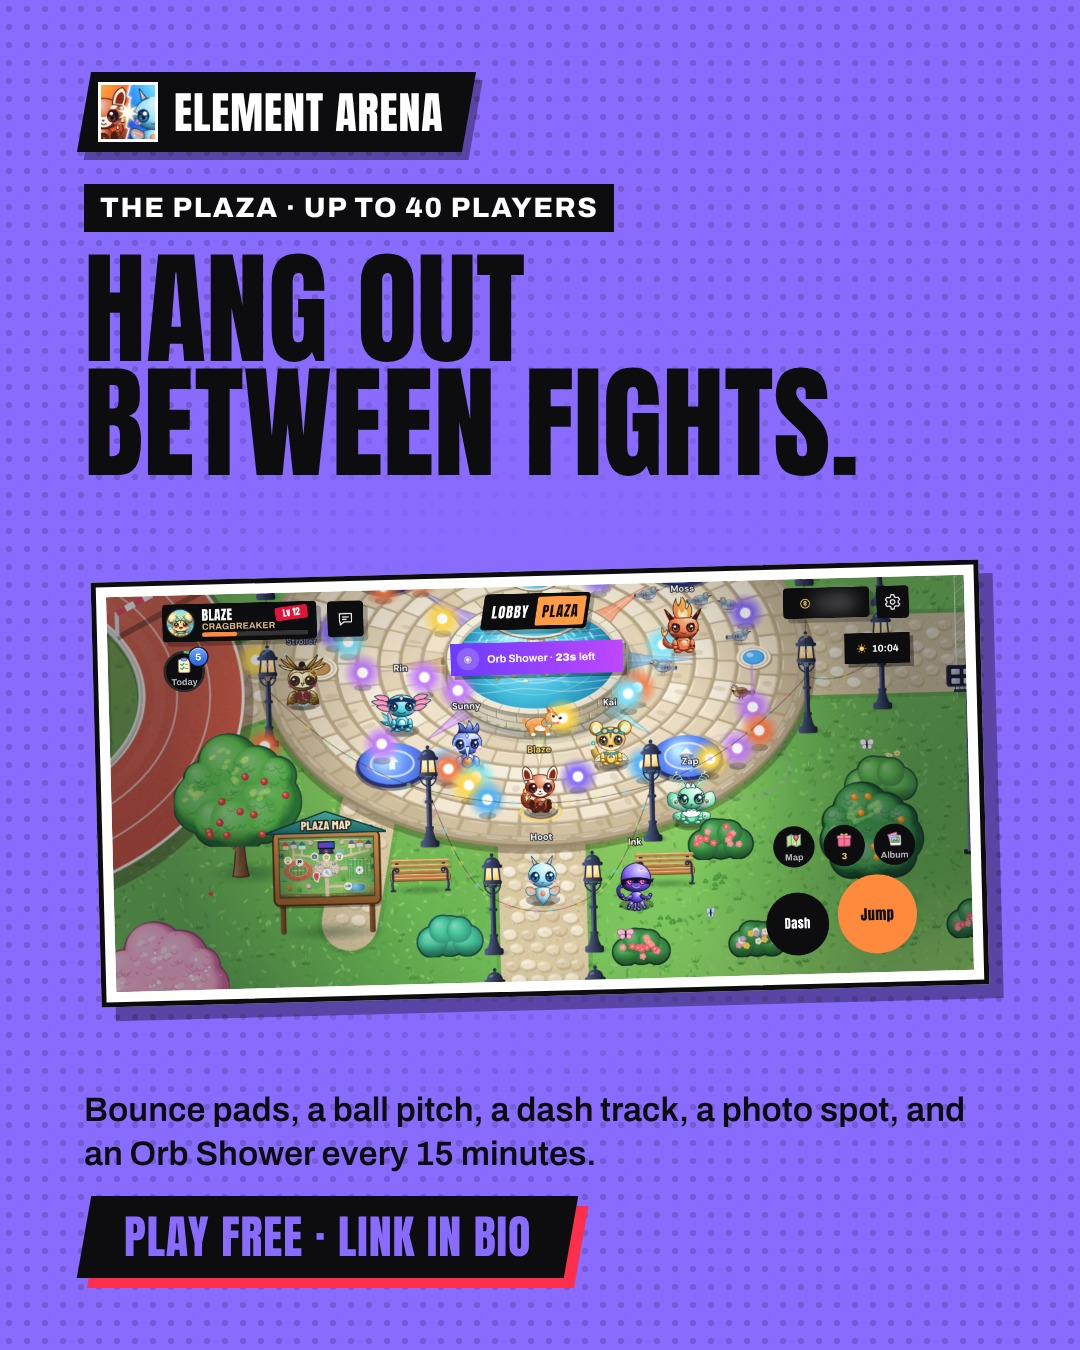
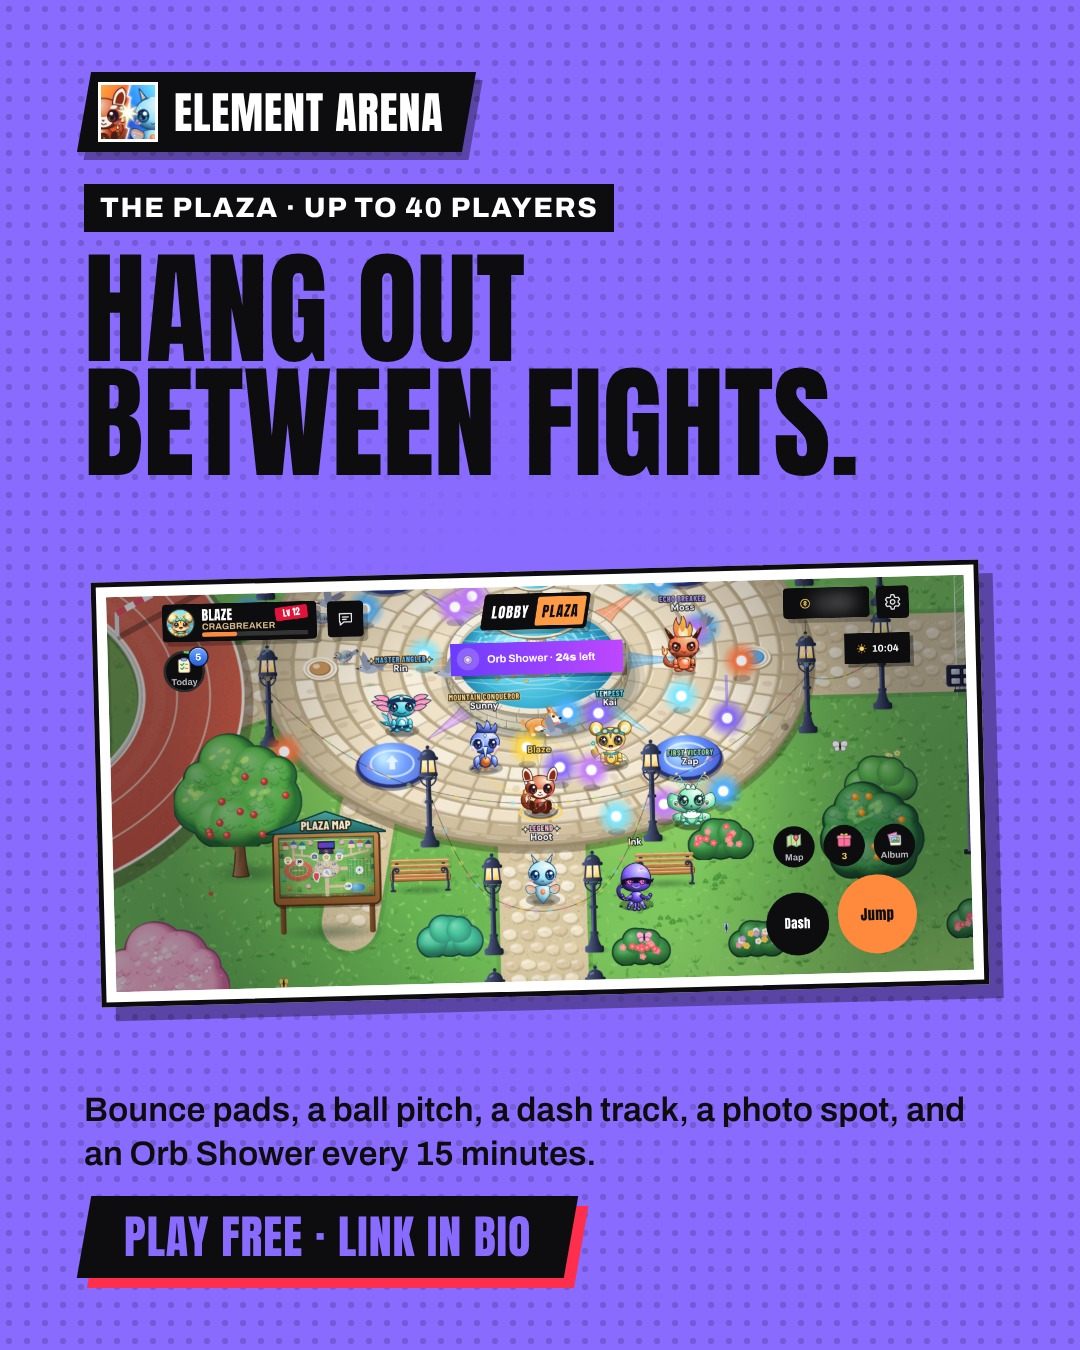
Instagram: the Plaza post shows players' titles (#650)
#650 puts a player's title over their name in the Plaza. The made-up
players in post 12 now wear the game's own titles, one per tier (Legend,
Master Angler, Mountain Conqueror and Tempest, Echo Breaker, First
Victory) and one none, retaken on main; Sunny moves a step so its title
clears Rin. The caption says titles show over your name.

Claude-Session: https://claude.ai/code/session_01GGURqTyss1yZEG5qcb1sBJ

Changed region(s): [[0.2139, 0.4044, 0.7333, 0.6844], [0.7639, 0.5289, 0.7944, 0.56], [0.5806, 0.6844, 0.6111, 0.7156]]

diff --git a/scripts/instagram/screens.spec.ts b/scripts/instagram/screens.spec.ts
@@ -49,26 +49,30 @@ const CROWD: [
   level: number,
   x: number,
   y: number,
+  title: string | null,
+  titleColor: string | null,
 ][] = [
-  ["Rin", "tidefin", 7, 1160, 990],
-  ["Sunny", "halcyra", 31, 1250, 1045],
-  ["Kai", "voltkit", 12, 1450, 1045],
-  ["Moss", "cindrake", 18, 1555, 1035],
-  ["Zap", "lumoth", 9, 1560, 1130],
-  ["Hoot", "glacelle", 24, 1350, 1230],
-  ["Ink", "shadopus", 15, 1480, 1240],
+  // Titles over the names, every tier (#650; the game's own titles and
+  // colours, as tests/visual/plaza-title-crowd.ts), and one with none.
+  ["Rin", "tidefin", 7, 1160, 990, "Master Angler", "#5fb3ff"],
+  ["Sunny", "halcyra", 31, 1275, 1045, "Mountain Conqueror", "#ffcf66"],
+  ["Kai", "voltkit", 12, 1450, 1045, "Tempest", "#50dbe9"],
+  ["Moss", "cindrake", 18, 1555, 1035, "Echo Breaker", "#b79cff"],
+  ["Zap", "lumoth", 9, 1560, 1130, "First Victory", "#9ee6a8"],
+  ["Hoot", "glacelle", 24, 1350, 1230, "Legend", "#ffe08a"],
+  ["Ink", "shadopus", 15, 1480, 1240, null, null],
 ];
 async function crowd(page: Page) {
   await page.evaluate(
     ({ crowd, me }) => {
       const w = window as any;
       w.__plazaPosition(me.x, me.y);
-      crowd.forEach(([name, character, level, x, y], i) => {
+      crowd.forEach(([name, character, level, x, y, title, titleColor], i) => {
         const id = `crowd-${i}`;
         w.__plazaWorld.join(id, `acct-${id}`, {
           name,
-          title: null,
-          titleColor: null,
+          title,
+          titleColor,
           level,
           character,
           skin: null,

diff --git a/docs/instagram.md b/docs/instagram.md
@@ -177,21 +177,21 @@ five hashtags, `#ElementArena`, no other game's name, at most 2,200
 characters). Reports since December 2025 say Instagram caps posts at five
 hashtags; five works under either rule.
 
-| Post                        | Picture                                                                  |
-| --------------------------- | ------------------------------------------------------------------------ |
-| 1. Welcome                  | the duel at dusk (loading art), "Open beta · free in your browser"       |
-| 2. Duels                    | a real duel, the charged beam into the lightning field                   |
-| 3. The roster               | the 18 fighters' drawings on their elements' colours                     |
-| 4. Raid boss: Lumiwick      | Lumiwick's raid splash                                                   |
-| 5. 2v2 teams                | a real 2v2                                                               |
-| 6. Champion spotlight       | Pyranda and its kit                                                      |
-| 7. Free-for-all             | a real four-way fight in the Ember Forge                                 |
-| 8. The Shop: Mythical skins | a Reel (below)                                                           |
-| 9. The Spire                | a real Spire floor                                                       |
-| 10. Found a bug? Tell us.   | the game's Menu, rings on the gear and Report a problem (report.spec.ts) |
-| 11. Play it like an app     | a carousel from a real iPhone: Safari's steps to the home screen (above) |
-| 12. The Plaza               | the Plaza in an Orb Shower, with made-up players round the fountain      |
-| 13. Bring your friends      | the Friends sheet: a request, Invite, Join and Watch, the friend code    |
+| Post                        | Picture                                                                    |
+| --------------------------- | -------------------------------------------------------------------------- |
+| 1. Welcome                  | the duel at dusk (loading art), "Open beta · free in your browser"         |
+| 2. Duels                    | a real duel, the charged beam into the lightning field                     |
+| 3. The roster               | the 18 fighters' drawings on their elements' colours                       |
+| 4. Raid boss: Lumiwick      | Lumiwick's raid splash                                                     |
+| 5. 2v2 teams                | a real 2v2                                                                 |
+| 6. Champion spotlight       | Pyranda and its kit                                                        |
+| 7. Free-for-all             | a real four-way fight in the Ember Forge                                   |
+| 8. The Shop: Mythical skins | a Reel (below)                                                             |
+| 9. The Spire                | a real Spire floor                                                         |
+| 10. Found a bug? Tell us.   | the game's Menu, rings on the gear and Report a problem (report.spec.ts)   |
+| 11. Play it like an app     | a carousel from a real iPhone: Safari's steps to the home screen (above)   |
+| 12. The Plaza               | the Plaza in an Orb Shower, made-up players with their titles (every tier) |
+| 13. Bring your friends      | the Friends sheet: a request, Invite, Join and Watch, the friend code      |
 
 **Post 8**: Post `08-skins-reel.mp4` as a **Reel**, with `08-skins-reel-cover.jpg` as
 its cover: the three skins' Entrance, Victory and Ultimate with their full
